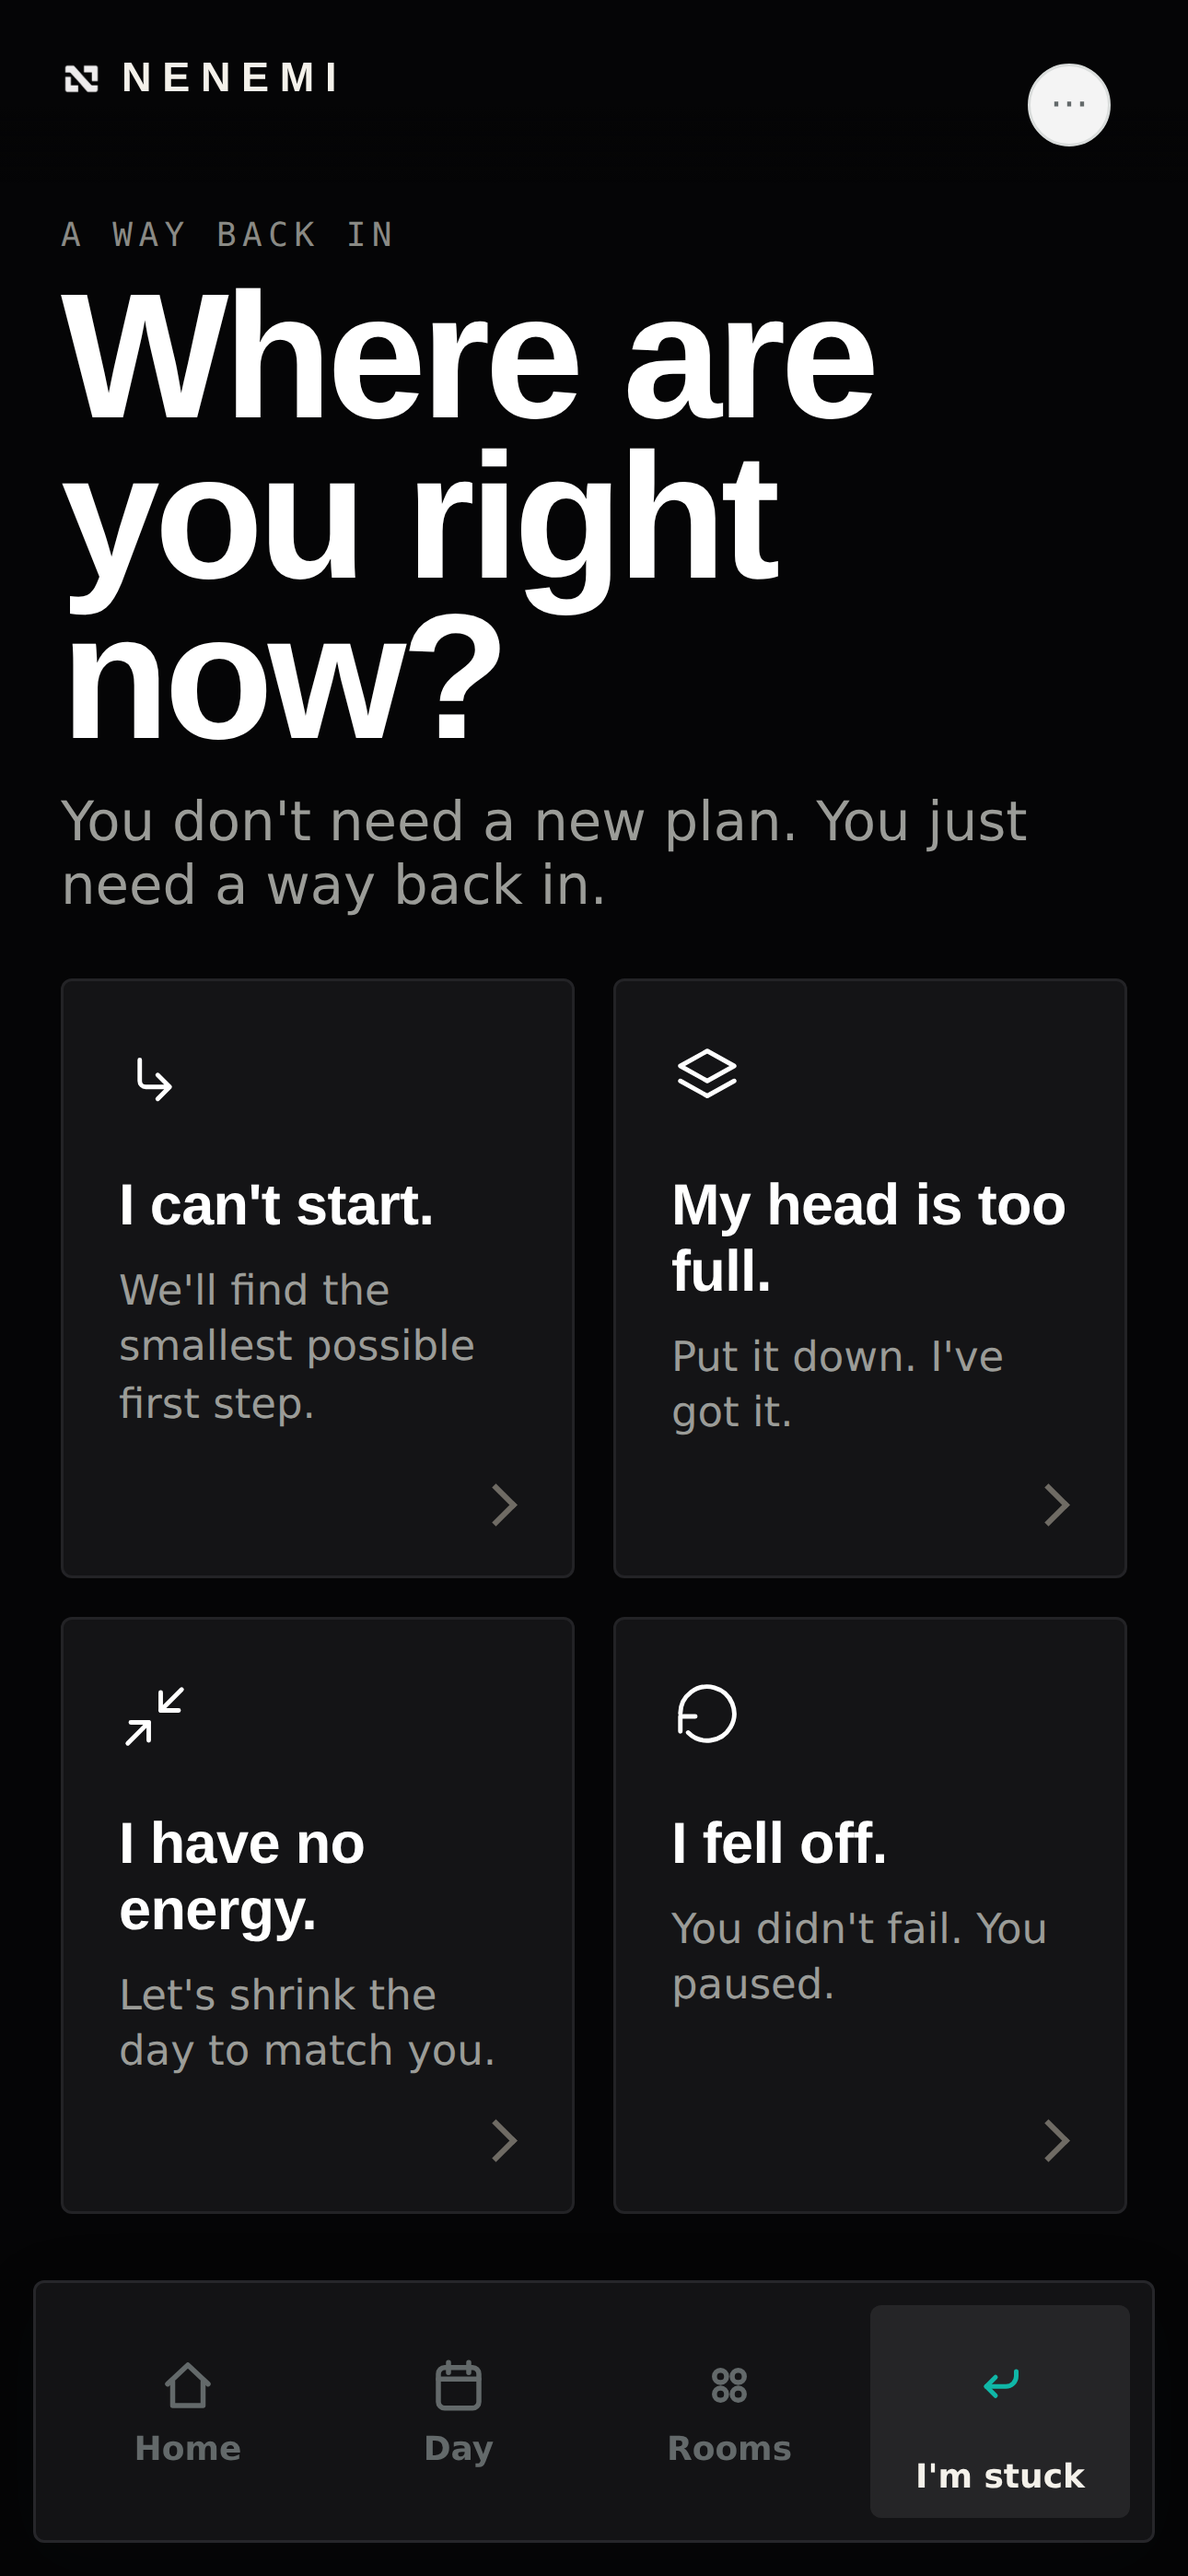
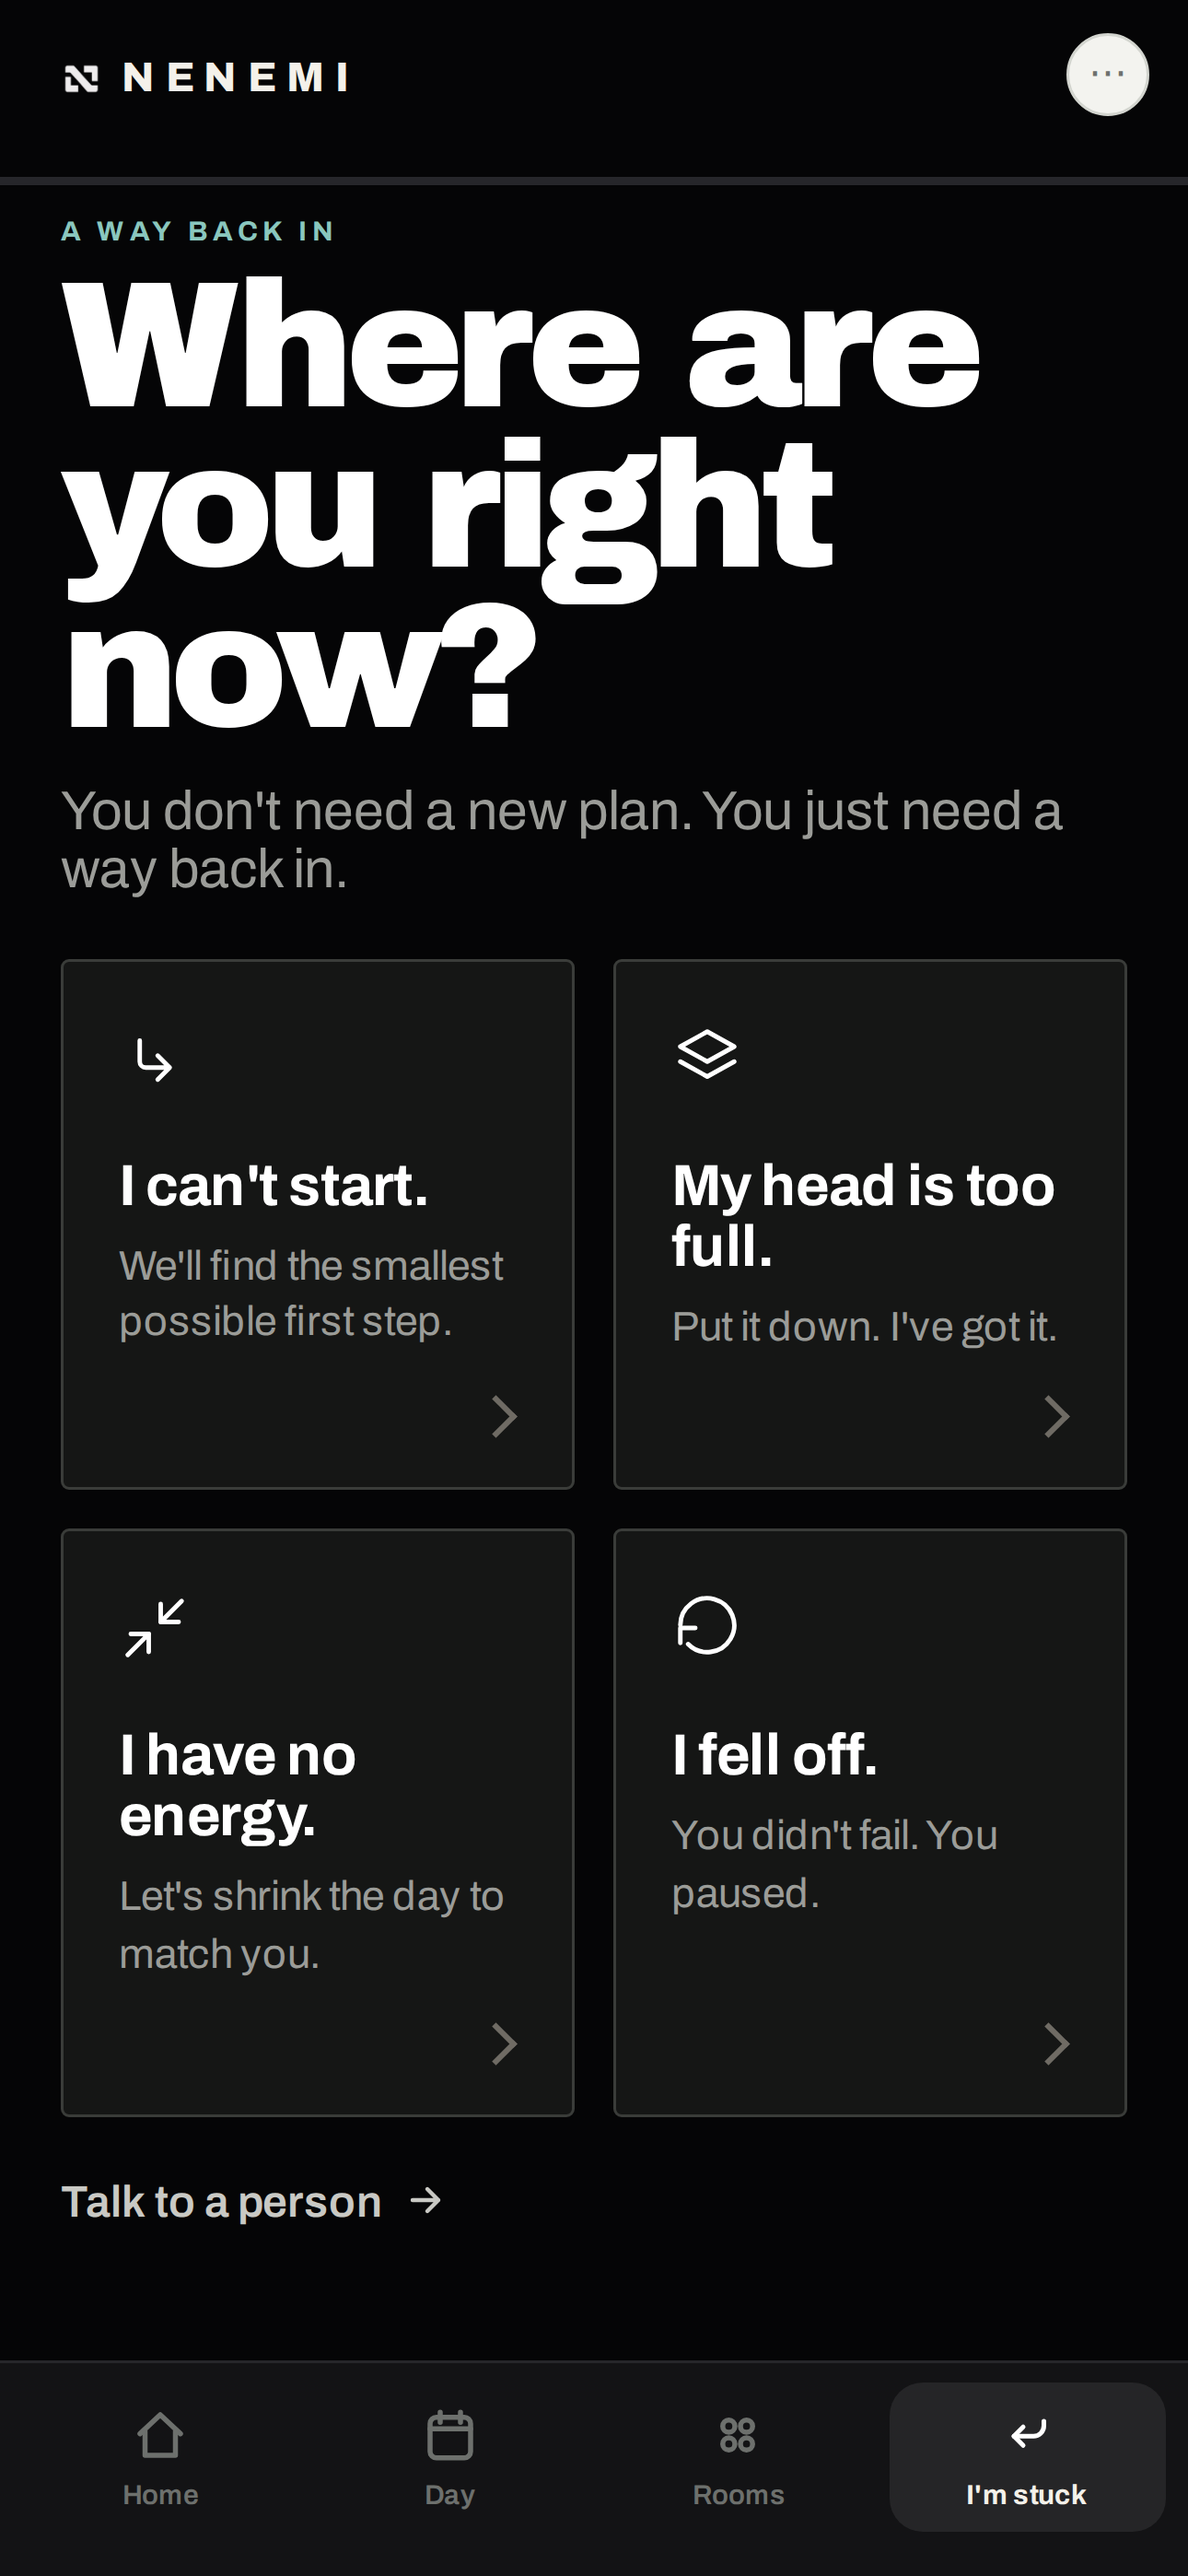
Refresh App Store screenshots for the new look; reviewer needs a demo login
Claude-Session: https://claude.ai/code/session_01DU2AkZfE8CD8FTr6ig2LVy

diff --git a/nenemi-handover/docs/app-store.md b/nenemi-handover/docs/app-store.md
@@ -8,7 +8,7 @@ One screen at a time. Do the step, come back, say "done". Nothing here needs to 
 - **iOS shell:** ready in `app/`. Build **1.0 (2)**, iPhone only, portrait, minimum iOS 15. Loads the live site in a Capacitor WebView, so shipping web updates needs no new review.
 - **Assets in the repo:** app icon + splash (in Xcode project), store screenshots for the 6.7" and 6.5" slots — 5 each — in `nenemi-handover/store/screenshots/`, privacy / terms / support pages live.
 - **One real blocker left:** Clerk must be switched to its production instance on mynenemi.com, and **Sign in with Apple** added (Apple requires it because Google sign-in is offered). ~20 minutes, with you at the keyboard. See "Still to do" at the bottom.
-- **Store screenshots refreshed 2026-09-21** to match the current look (black/white reskin, the My Day checklist). Five screens each for the 6.7" and 6.5" slots, at exact App Store sizes (1290×2796 and 1242×2688), in `nenemi-handover/store/screenshots/`.
+- **Store screenshots refreshed 2026-09-23** to match the current look (reference restyle, time-of-day greeting, My Day). Five screens each for the 6.7" and 6.5" slots, at exact App Store sizes (1290×2796 and 1242×2688), in `nenemi-handover/store/screenshots/`.
 
 ### Money: the iOS app ships **free** — do not add in-app purchase
 Full access ($10/mo) is **web only**, through Stripe. The iPhone app offers **no purchase at all**, so Apple's in-app-purchase rule (3.1.1) does not apply and there is nothing to build for review. **Never wire Stripe checkout or a "Full access" buy button into the app** — that is an automatic rejection. If you ever want the subscription available inside the app, it has to go through Apple's own in-app purchase, which is a separate, larger piece of work.
@@ -122,9 +122,10 @@ Everything below is ready to paste. Screenshots are in `nenemi-handover/store/sc
 
 ## Review notes, paste into "Notes" for the reviewer
 
-No account is needed. Open the app and type or speak into the box on the first screen. Sign-in is optional and only syncs data across devices. Speech is handled on device by Apple's recognizer. The app is a native shell around our web app so updates ship without a resubmission; all features are usable inside the app.
+Sign in with the demo account below (email and password). Then type or speak into the box on the first screen. Your data is saved on the device and synced to your account. Speech is handled on device by Apple's recognizer. The app is a native shell around our web app so updates ship without a resubmission; all features are usable inside the app.
 
 ## Still to do before submission
 
 - **Clerk → production + Sign in with Apple — verify it's live.** The plan is: Clerk on its production instance on mynenemi.com, with Sign in with Apple enabled (Apple requires it whenever Google sign-in is offered). Marcos believes this is already done; it couldn't be confirmed from the build environment. 10-second check: open the sign-in sheet on https://www.mynenemi.com — "Continue with Apple" should be one of the options, and the account should be a production Clerk instance (not a `*.clerk.accounts.dev` dev one).
-- Store screenshots: **done** (refreshed 2026-09-21, both slots, exact sizes).
+- Store screenshots: **done** (refreshed 2026-09-23, both slots, exact sizes).
+- **Demo account for Apple's reviewer.** The app now opens on the sign-up screen, so the reviewer needs a login. Create one account (e.g. a spare email + password) and paste both into App Store Connect → App Review Information → Sign-in required.
